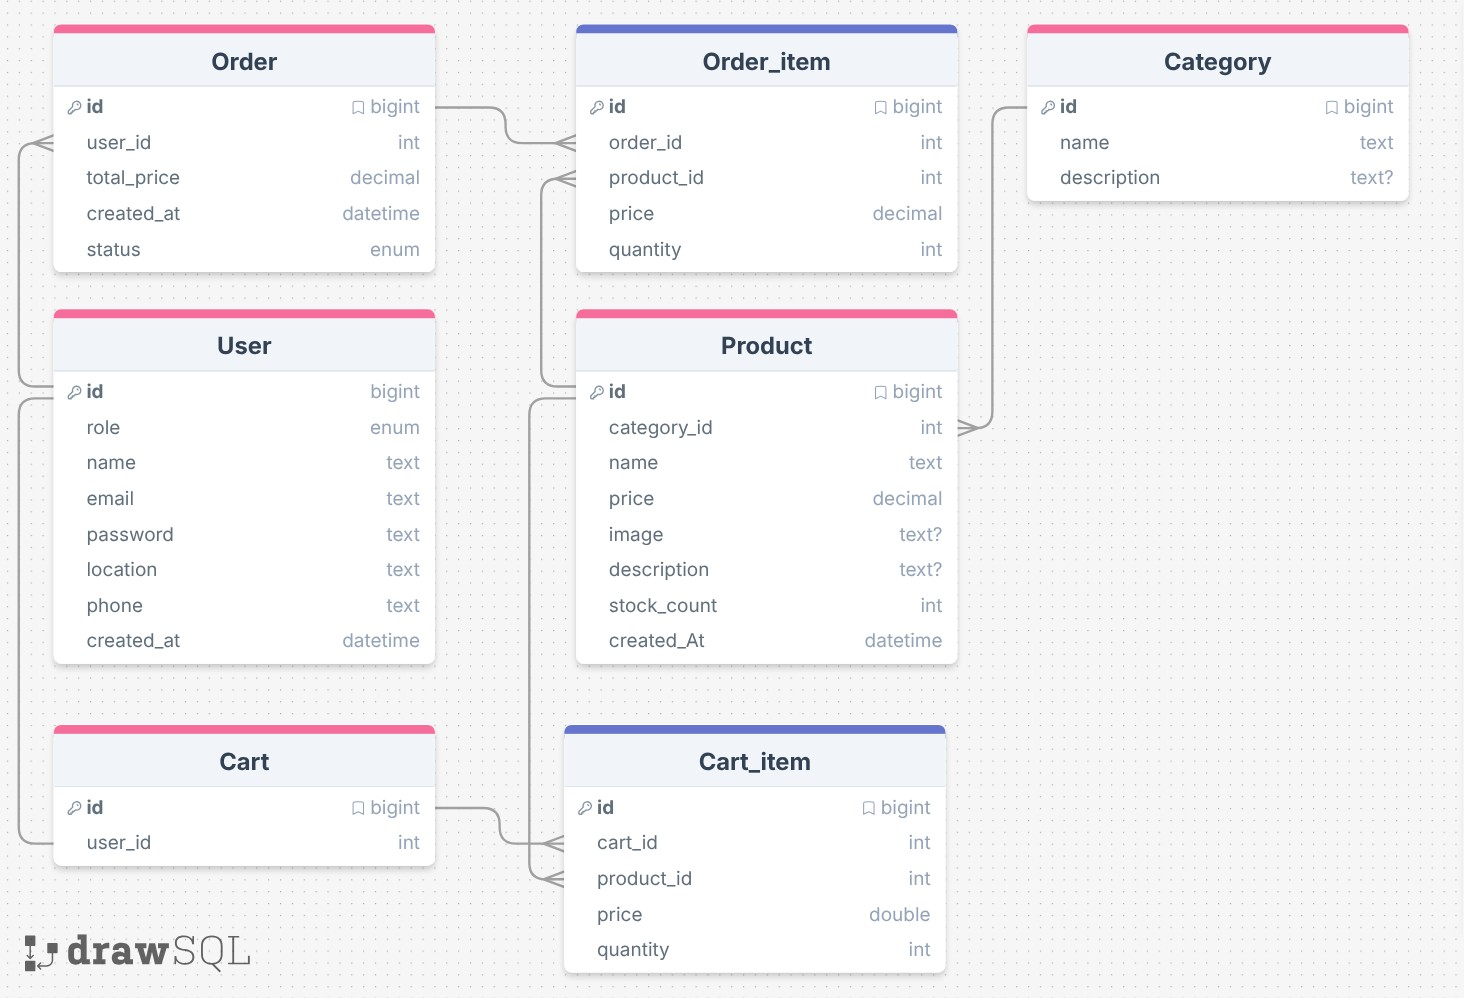
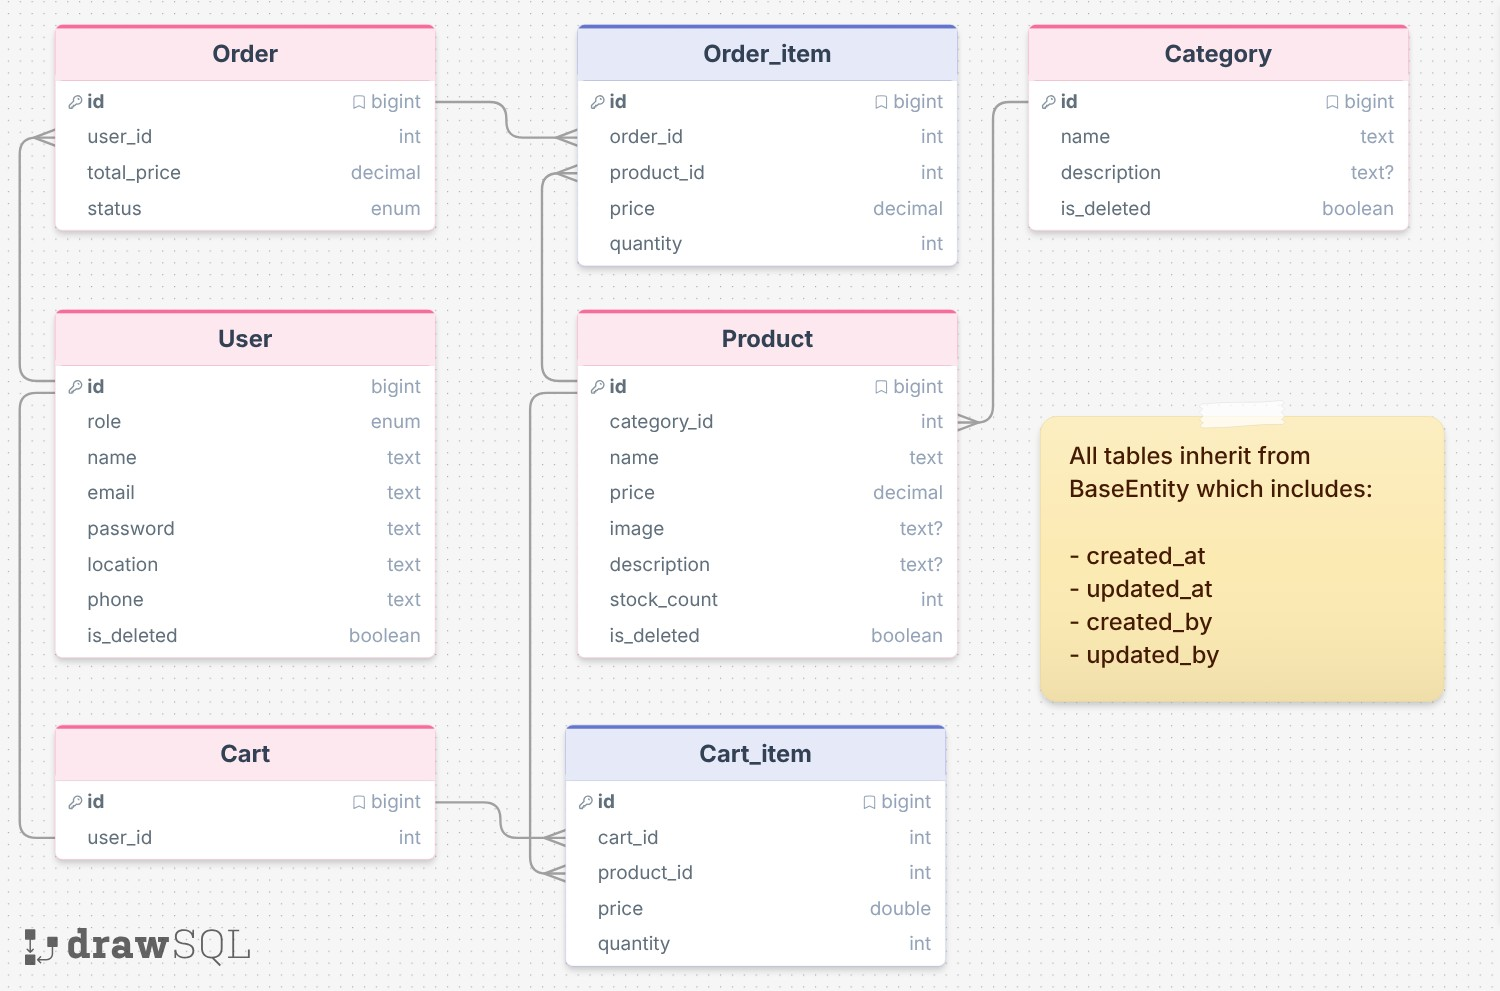
add annotations to base entity , create soft deletable entity and edit ERD

diff --git a/src/main/java/com/global/order_api/core/base/BaseEntity.java b/src/main/java/com/global/order_api/core/base/BaseEntity.java
@@ -8,6 +8,7 @@ import org.springframework.data.annotation.LastModifiedBy;
 import org.springframework.data.annotation.LastModifiedDate;
 import org.springframework.data.jpa.domain.support.AuditingEntityListener;
 
+import jakarta.persistence.Column;
 import jakarta.persistence.EntityListeners;
 import jakarta.persistence.GeneratedValue;
 import jakarta.persistence.GenerationType;
@@ -31,17 +32,20 @@ public abstract class BaseEntity<ID>{
 	private ID id;
 	
 	@CreatedDate
+	@Column(name ="created_at",updatable = false)
 	private LocalDateTime createdAt;
 	
 	@LastModifiedDate
+	@Column(name = "updated_at")
 	private LocalDateTime updatedAt;
 	
 	@CreatedBy
+	@Column(name = "created_by", updatable = false)
 	private String createdBy;
 	
 	@LastModifiedBy
+	@Column(name = "updated_by")
 	private String updatedBy;
 	
-	private boolean isDeleted = false;
 }
 

diff --git a/src/main/java/com/global/order_api/core/base/SoftDeletableEntity.java b/src/main/java/com/global/order_api/core/base/SoftDeletableEntity.java
@@ -1,0 +1,18 @@
+package com.global.order_api.core.base;
+
+import java.time.LocalDateTime;
+
+import jakarta.persistence.Column;
+import jakarta.persistence.MappedSuperclass;
+import lombok.Getter;
+import lombok.Setter;
+
+@Getter
+@Setter
+@MappedSuperclass // tell hibernate that this entity not a table in db 
+// this only a parent class 
+public abstract class SoftDeletableEntity<ID> extends BaseEntity<ID>{
+	
+	@Column(name = "is_deleted", nullable = false)
+	private boolean isDeleted=false; // default value
+}
